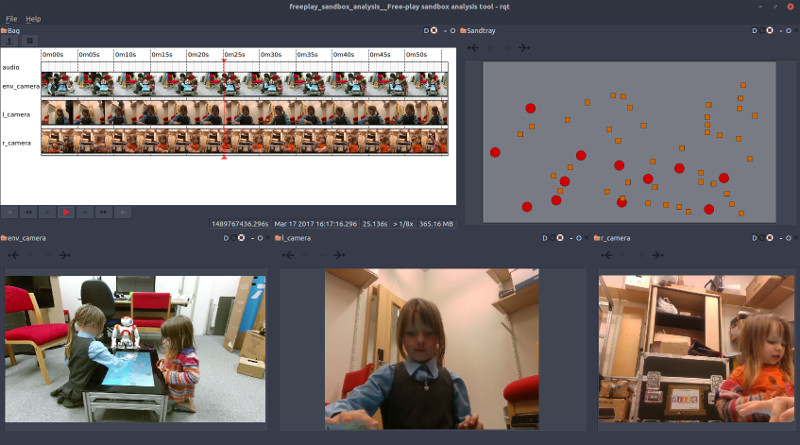
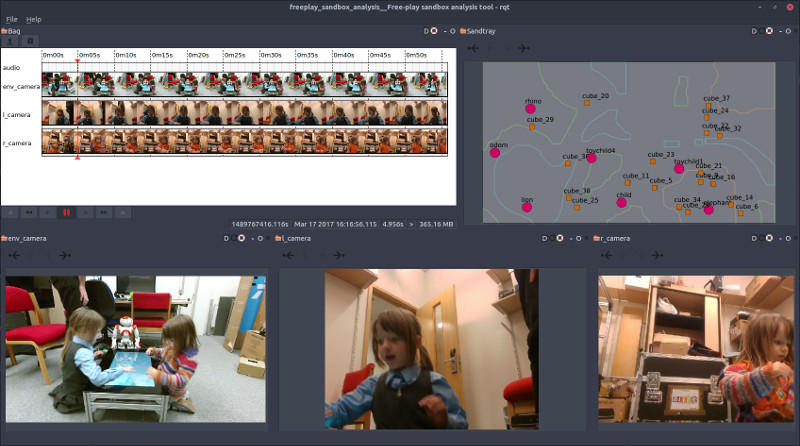
sandtray viz: display the sandbox zones

diff --git a/src/freeplay_sandbox_analysis/plugins/sandtray_view.py b/src/freeplay_sandbox_analysis/plugins/sandtray_view.py
@@ -16,8 +16,8 @@ import image_helper
 
 from .sandtray_item import SandtrayItem
 
-from python_qt_binding.QtCore import Qt
-from python_qt_binding.QtGui import QPixmap
+from python_qt_binding.QtCore import Qt, QPointF
+from python_qt_binding.QtGui import QPixmap, QColor
 from python_qt_binding.QtWidgets import QGraphicsScene, QGraphicsView
 
 
@@ -57,16 +57,31 @@ class SandtrayView(TopicMessageView):
         TopicMessageView.message_viewed(self, bag, msg_details)
         topic, msg, t = msg_details[:3]
         if msg:
-            for t in msg.transforms:
-                if t.header.frame_id == "sandtray":
-                    self._items[t.child_frame_id] = t.transform.translation.x, -t.transform.translation.y
-            self._sandtray.update(self._items)
+            if topic == "/zones":
+                self._sandtray.update_zones(self._get_zones(msg))
+            else:
+                for t in msg.transforms:
+                    if t.header.frame_id == "sandtray":
+                        self._items[t.child_frame_id] = t.transform.translation.x, -t.transform.translation.y
+                self._sandtray.update(self._items)
 
     def message_cleared(self):
         TopicMessageView.message_cleared(self)
         self.set_image(None, None, None)
 
     # End MessageView implementation
+
+    def _get_zones(self, msg):
+        zones = {}
+
+        for marker in msg.markers:
+            polygon = []
+            color = QColor(255*marker.color.r, 255*marker.color.g, 255*marker.color.b, 255*marker.color.a)
+            for p in marker.points:
+                polygon.append(QPointF(p.x * SandtrayItem.scale, -p.y * SandtrayItem.scale))
+            zones.setdefault(color, []).append(polygon)
+
+        return zones
 
     def put_image_into_scene(self):
         if self._image:

diff --git a/src/freeplay_sandbox_analysis/plugins/sandtray_item.py b/src/freeplay_sandbox_analysis/plugins/sandtray_item.py
@@ -14,6 +14,7 @@ class SandtrayItem(QGraphicsItem):
         super(SandtrayItem, self).__init__()
 
         self._items = {}
+        self._zones = {}
 
         self._bg_color = QColor(179, 179, 179, 25)
         self._fg_color = QColor(204, 204, 204, 102)
@@ -39,6 +40,12 @@ class SandtrayItem(QGraphicsItem):
                          SandtrayItem.width * SandtrayItem.scale,
                          painter.background())
 
+        for color, polys in self._zones.items():
+            painter.setPen(QPen(color, 2))
+            for poly in polys:
+                painter.drawPolygon(QPolygonF(poly))
+
+
         painter.setBrush(QBrush(self._fg_color))
         painter.setPen(QPen(self._border_color, 1))
         painter.drawRect(0, 0, SandtrayItem.length * SandtrayItem.scale, SandtrayItem.width * SandtrayItem.scale)
@@ -58,7 +65,11 @@ class SandtrayItem(QGraphicsItem):
                 painter.setBrush(QBrush(self._item_color))
                 painter.drawEllipse(QPointF(x,y), 10, 10)
 
+    def update_zones(self, zones):
+        self._zones = zones
+        super(SandtrayItem, self).update()
+
     def update(self, items):
         self._items = items
-
         super(SandtrayItem, self).update()
+

diff --git a/src/freeplay_sandbox_analysis/plugins/sandtray_plugin.py b/src/freeplay_sandbox_analysis/plugins/sandtray_plugin.py
@@ -16,4 +16,4 @@ class SandtrayPlugin(Plugin):
         return None
 
     def get_message_types(self):
-        return ['tf2_msgs/TFMessage', 'tf_msgs/TFMessage']
+        return ['tf2_msgs/TFMessage', 'tf_msgs/TFMessage', 'visualization_msgs/MarkerArray']
